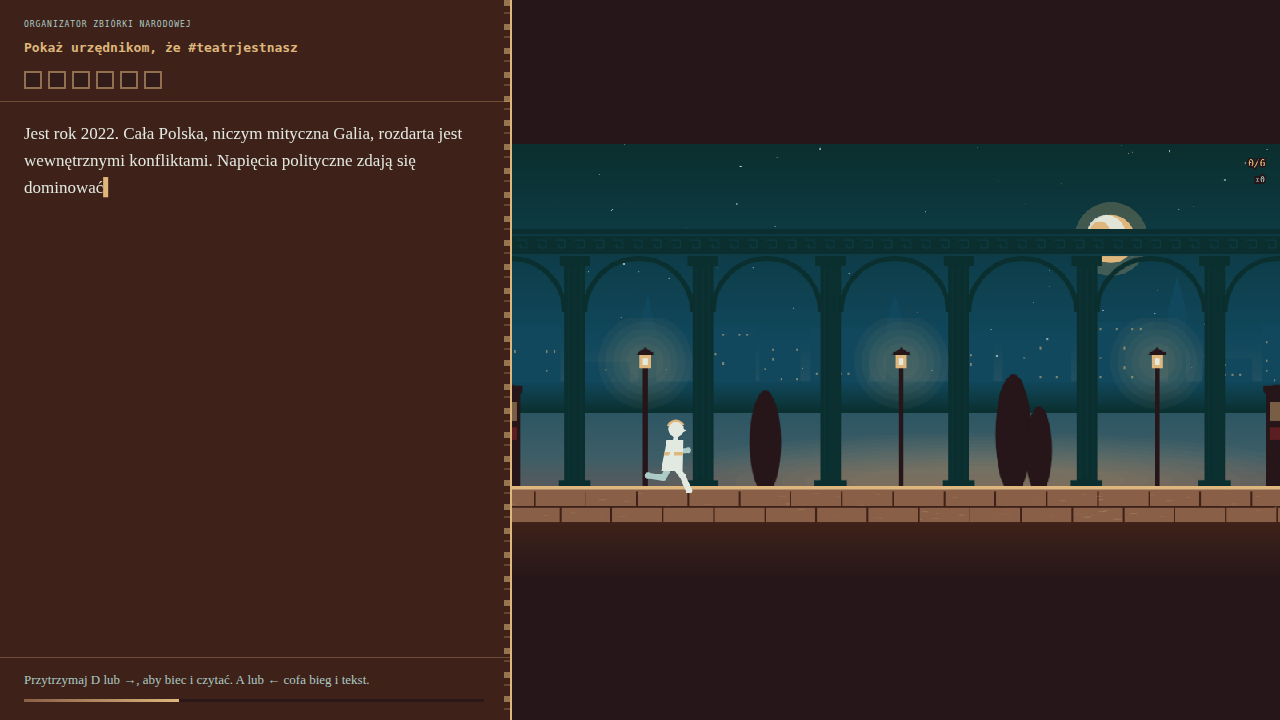
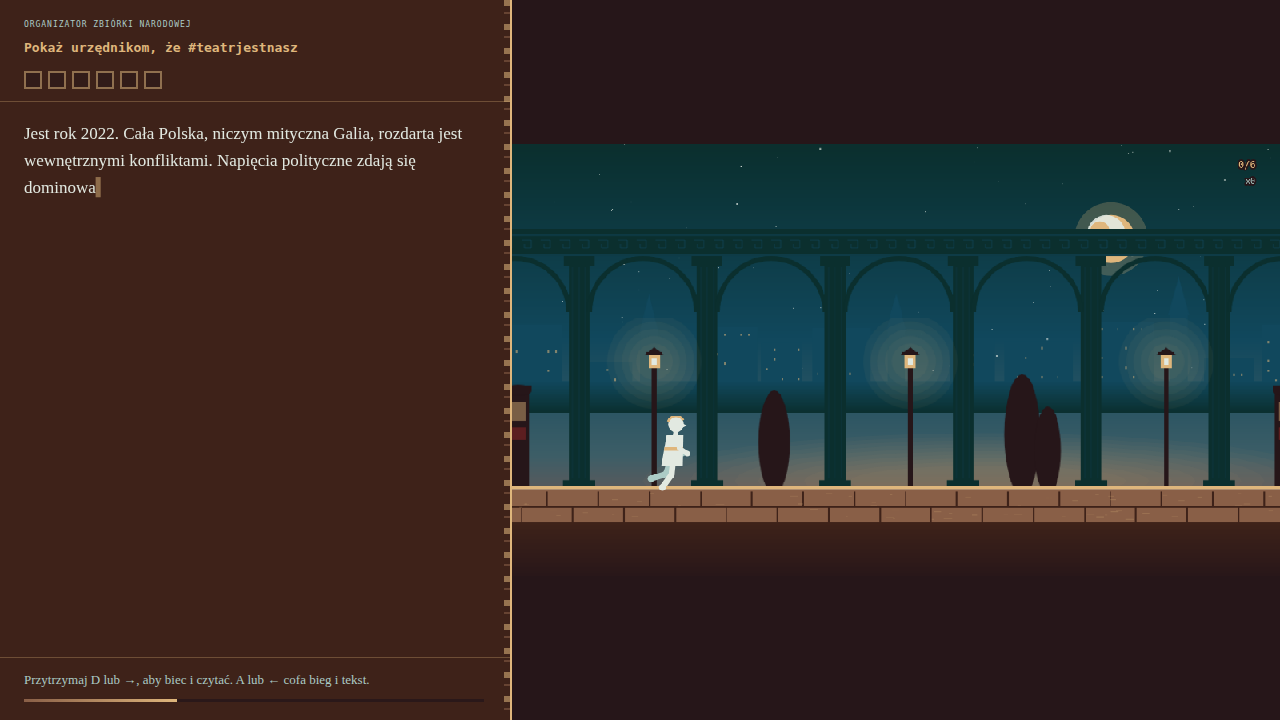
etap-4: obrazy z API w grze, fasada z API na starcie, marmurowe piętro Edukacji, postać w obrazie, głębia obrazu pod kursorem
- Historie wskazują public/assets/paintings/<id>.jpg (import przez workflow); BootScene ładuje
  JPG albo SVG po rozszerzeniu; fasada z API (public/assets/hotel/facade.jpg) z dopasowaną
  geometrią bramy i pochodni, fasada rysowana kodem jako fallback.
- Tablica FigJam: piętro Edukacji jako minimalistyczny marmur; złota sylwetka gościa pojawia się
  w obrazie, gdy stoi obok; obraz przesuwa się lekko za kursorem (głębia).
- HUD odsunięty od krawędzi, zbliżenie przy wyborze 1.02; test case'ów akceptuje JPG.
- Zrzuty ekranu: ekran startowy, hotel (trzy piętra), naprawa piętra, finał z obrazem z API.

Claude-Session: https://claude.ai/code/session_017RLHMR5sPYmY5kgMjKF4Bx

diff --git a/src/scenes/StartScene.ts b/src/scenes/StartScene.ts
@@ -1,5 +1,11 @@
 import Phaser from 'phaser';
-import { FACADE_GATE, FACADE_TORCHES, HOTEL_KEYS } from '../assets/generators/hotel';
+import {
+  FACADE_CODE,
+  FACADE_GATE,
+  FACADE_IMAGE,
+  HOTEL_KEYS,
+  type FacadeLayout,
+} from '../assets/generators/hotel';
 import { GAME_HEIGHT, GAME_WIDTH } from '../config/gameConfig';
 import { bus } from '../events/bus';
 import { prefersReducedMotion } from '../ui/dom';
@@ -24,6 +30,7 @@ export class StartScene extends Phaser.Scene {
   }[] = [];
   private gateLeft!: Phaser.GameObjects.Image;
   private gateRight!: Phaser.GameObjects.Image;
+  private layout: FacadeLayout = FACADE_CODE;
   private entering = false;
   private readonly reducedMotion = prefersReducedMotion();
   private readonly unsubscribe: (() => void)[] = [];
@@ -38,18 +45,31 @@ export class StartScene extends Phaser.Scene {
     this.torches.length = 0;
     document.body.dataset.scene = 'start';
     this.add.image(0, 0, HOTEL_KEYS.facade).setOrigin(0, 0).setDepth(0);
+    const hasImage = this.textures.exists(HOTEL_KEYS.facadeImage);
+    this.layout = hasImage ? FACADE_IMAGE : FACADE_CODE;
+    if (hasImage) {
+      // Fasada z API zakrywa rysowaną; brama i płomienie zostają kodem, dopasowane do obrazu.
+      this.add
+        .image(0, 0, HOTEL_KEYS.facadeImage)
+        .setOrigin(0, 0)
+        .setDisplaySize(GAME_WIDTH, GAME_HEIGHT)
+        .setDepth(0.5);
+    }
+    const gate = this.layout.gate;
+    const doorScale = { x: gate.width / 2 / 60, y: gate.height / 184 };
     this.gateLeft = this.add
-      .image(FACADE_GATE.x, FACADE_GATE.y + FACADE_GATE.height, HOTEL_KEYS.gateDoor)
+      .image(gate.x, gate.y + gate.height, HOTEL_KEYS.gateDoor)
       .setOrigin(1, 1)
+      .setScale(doorScale.x, doorScale.y)
       .setDepth(2)
       .setFlipX(true);
     this.gateRight = this.add
-      .image(FACADE_GATE.x, FACADE_GATE.y + FACADE_GATE.height, HOTEL_KEYS.gateDoor)
+      .image(gate.x, gate.y + gate.height, HOTEL_KEYS.gateDoor)
       .setOrigin(0, 1)
+      .setScale(doorScale.x, doorScale.y)
       .setDepth(2);
-    // Ciepłe światło z okien (bardzo słabe, zanim zapłoną pochodnie).
-    for (const t of FACADE_TORCHES) {
-      this.add.image(t.x, t.y, HOTEL_KEYS.torch).setOrigin(0.5, 0).setDepth(3);
+    for (const t of this.layout.torches) {
+      if (!hasImage) this.add.image(t.x, t.y, HOTEL_KEYS.torch).setOrigin(0.5, 0).setDepth(3);
       const halo = this.add
         .image(t.x, t.y, HOTEL_KEYS.glow)
         .setDepth(4)
@@ -142,20 +162,15 @@ export class StartScene extends Phaser.Scene {
     bus.emit('sfx', 'gate');
     const camera = this.cameras.main;
     // Brama otwiera się do środka (skrzydła zwężają się w perspektywie), światło zalewa portal.
+    const gate = this.layout.gate;
     this.tweens.add({
-      targets: this.gateLeft,
-      scaleX: 0.15,
-      duration: 900,
-      ease: 'Sine.easeInOut',
-    });
-    this.tweens.add({
-      targets: this.gateRight,
-      scaleX: 0.15,
+      targets: [this.gateLeft, this.gateRight],
+      scaleX: this.gateLeft.scaleX * 0.15,
       duration: 900,
       ease: 'Sine.easeInOut',
     });
     const glow = this.add
-      .image(FACADE_GATE.x, FACADE_GATE.y + FACADE_GATE.height / 2, HOTEL_KEYS.glow)
+      .image(gate.x, gate.y + gate.height / 2, HOTEL_KEYS.glow)
       .setDepth(3)
       .setTint(0xffe1a8)
       .setBlendMode(Phaser.BlendModes.ADD)
@@ -163,7 +178,7 @@ export class StartScene extends Phaser.Scene {
       .setScale(0.6);
     this.tweens.add({ targets: glow, alpha: 1, scale: 1.8, duration: 1100, ease: 'Quad.easeOut' });
     this.time.delayedCall(500, () => {
-      camera.pan(FACADE_GATE.x, FACADE_GATE.y + FACADE_GATE.height / 2, 1300, 'Sine.easeIn');
+      camera.pan(gate.x, gate.y + gate.height / 2, 1300, 'Sine.easeIn');
       camera.zoomTo(4, 1300, 'Sine.easeIn');
       camera.fadeOut(1200, 223, 182, 124);
       camera.once(Phaser.Cameras.Scene2D.Events.FADE_OUT_COMPLETE, () => {
@@ -176,8 +191,8 @@ export class StartScene extends Phaser.Scene {
   override update(time: number): void {
     if (!this.pointerSeen) {
       // Zanim gracz ruszy kursorem, pochodnia sama krąży przy bramie.
-      this.lightX = FACADE_GATE.x + Math.sin(time / 1700) * 140;
-      this.lightY = FACADE_GATE.y + 40 + Math.cos(time / 2300) * 60;
+      this.lightX = this.layout.gate.x + Math.sin(time / 1700) * 140;
+      this.lightY = this.layout.gate.y + 40 + Math.cos(time / 2300) * 60;
     }
     const flicker = this.reducedMotion
       ? 1
@@ -188,7 +203,7 @@ export class StartScene extends Phaser.Scene {
     this.torchLight.setScale(1.4 * flicker);
     this.darkness.erase(this.torchLight, this.lightX, this.lightY);
     for (let i = 0; i < this.lit; i += 1) {
-      const t = FACADE_TORCHES[i];
+      const t = this.layout.torches[i];
       if (t === undefined) continue;
       this.torchLight.setScale(0.8 * flicker);
       this.darkness.erase(this.torchLight, t.x, t.y - 10);

diff --git a/src/scenes/HotelScene.ts b/src/scenes/HotelScene.ts
@@ -265,8 +265,20 @@ export class HotelScene extends Phaser.Scene {
       frame.fillCircle(sx * (w / 2 + pad - 6), sy * (h / 2 + pad - 6), 3);
     }
     container.add(frame);
-    const image = this.add.image(0, 0, paintingTextureKey(kejs.id)).setDisplaySize(w, h);
+    const image = this.add
+      .image(0, 0, paintingTextureKey(kejs.id))
+      .setDisplaySize(w, h)
+      .setName('image');
     container.add(image);
+    // Tablica FigJam: „gdy stoisz pod obrazem, pojawia się w nim postać” — sylwetka gościa w obrazie.
+    const ghost = this.add
+      .image(0, h / 2 - 4, textureKey('player.idle'))
+      .setOrigin(0.5, 1)
+      .setScale(0.55)
+      .setTint(0xdfb67c)
+      .setAlpha(0)
+      .setName('ghost');
+    container.add(ghost);
     if (!restored) container.add(this.drawDamage(w, h, kejs.painting.cols, kejs.painting.rows));
 
     const plaqueY = h / 2 + pad + 14;
@@ -304,6 +316,12 @@ export class HotelScene extends Phaser.Scene {
       .setDepth(41)
       .setInteractive({ useHandCursor: true });
     const label = `${kejs.title} · ${restored ? this.strings.hubRestored : this.strings.hubDamaged}`;
+    // „Jak ruszasz myszką, to poczucie, że obraz ma głębię” — obraz przesuwa się lekko za kursorem.
+    hit.on(Phaser.Input.Events.POINTER_MOVE, (pointer: Phaser.Input.Pointer) => {
+      const dx = (pointer.worldX - x) / (w / 2);
+      const dy = (pointer.worldY - y) / (h / 2);
+      image.setPosition(-dx * 4, -dy * 3);
+    });
     hit.on(Phaser.Input.Events.POINTER_OVER, () => {
       this.tweens.add({ targets: container, scale: 1.06, duration: 180, ease: 'Quad.easeOut' });
       container.setDepth(14);
@@ -311,6 +329,7 @@ export class HotelScene extends Phaser.Scene {
       this.floorLabel.setText(label);
     });
     hit.on(Phaser.Input.Events.POINTER_OUT, () => {
+      this.tweens.add({ targets: image, x: 0, y: 0, duration: 250, ease: 'Sine.easeOut' });
       if (this.nearCase !== kejs.id) {
         this.tweens.add({ targets: container, scale: 1, duration: 180 });
         container.setDepth(12);
@@ -594,6 +613,8 @@ export class HotelScene extends Phaser.Scene {
         this.tweens.add({ targets: previous, scale: 1, duration: 200 });
         const hint = previous.getByName('hint') as Phaser.GameObjects.Text | null;
         if (hint !== null) this.tweens.add({ targets: hint, alpha: 0, duration: 150 });
+        const ghost = previous.getByName('ghost') as Phaser.GameObjects.Image | null;
+        if (ghost !== null) this.tweens.add({ targets: ghost, alpha: 0, duration: 200 });
         previous.setDepth(12);
       }
       this.nearCase = nearId;
@@ -602,6 +623,11 @@ export class HotelScene extends Phaser.Scene {
         this.tweens.add({ targets: current, scale: 1.06, duration: 200, ease: 'Back.easeOut' });
         const hint = current.getByName('hint') as Phaser.GameObjects.Text | null;
         if (hint !== null) this.tweens.add({ targets: hint, alpha: 1, duration: 200 });
+        const ghost = current.getByName('ghost') as Phaser.GameObjects.Image | null;
+        if (ghost !== null) {
+          ghost.setFlipX(this.walker.sprite.flipX);
+          this.tweens.add({ targets: ghost, alpha: 0.75, duration: 450, ease: 'Sine.easeOut' });
+        }
         current.setDepth(14);
         bus.emit('sfx', 'painting.near');
       }

diff --git a/src/assets/generators/hotel.ts b/src/assets/generators/hotel.ts
@@ -23,6 +23,8 @@ export const HOTEL_KEYS = {
   flame: 'fx.flame',
   glow: 'fx.glow',
   facade: 'start.facade',
+  /** Fasada z API (plik) — używana zamiast rysowanej, jeśli się wczyta. */
+  facadeImage: 'start.facade.image',
   light: 'fx.light',
   vignette: 'fx.vignette',
   torch: 'start.torch',
@@ -52,14 +54,15 @@ export function worldTheme(world: World): WorldTheme {
         ceiling: col('bgDeep'),
       };
     case 'edukacja':
+      // Tablica FigJam: „Edu — minimalistyczny marmur”: jasny kamień, chłodne cienie, mało ozdób.
       return {
-        wallTop: 0x24424a,
-        wallBottom: col('cool'),
-        ornament: 0xbfd1c4,
-        wainscot: 0x5b3b2a,
-        carpet: 0x1e3d44,
-        carpetEdge: 0xaccbc6,
-        ceiling: 0x152a2e,
+        wallTop: 0x8fa6a3,
+        wallBottom: 0x6f8c8b,
+        ornament: col('text'),
+        wainscot: 0x4f6664,
+        carpet: col('cool'),
+        carpetEdge: col('textMuted'),
+        ceiling: 0x3f5654,
       };
     case 'biznes':
       return {
@@ -518,14 +521,38 @@ function drawFacade(scene: Phaser.Scene): void {
   bake(torch, HOTEL_KEYS.torch, 16, 36);
 }
 
-/** Pozycje uchwytów pochodni na fasadzie (współrzędne sceny startowej). */
-export const FACADE_TORCHES: readonly { x: number; y: number }[] = [
-  { x: 480 - 110, y: 540 - 150 },
-  { x: 480 + 110, y: 540 - 150 },
-  { x: 480, y: 120 + 24 },
-];
+/** Geometria fasady: uchwyty pochodni i brama (współrzędne sceny startowej 960×540). */
+export interface FacadeLayout {
+  torches: readonly { x: number; y: number }[];
+  gate: { x: number; y: number; width: number; height: number };
+}
 
-export const FACADE_GATE = { x: 480, y: 540 - 184, width: 120, height: 184 } as const;
+/** Fasada rysowana kodem. */
+export const FACADE_CODE: FacadeLayout = {
+  torches: [
+    { x: 480 - 110, y: 540 - 150 },
+    { x: 480 + 110, y: 540 - 150 },
+    { x: 480, y: 120 + 24 },
+  ],
+  gate: { x: 480, y: 540 - 184, width: 120, height: 184 },
+};
+
+/** Fasada z API (public/assets/hotel/facade.jpg) — pochodnie i brama tam, gdzie na obrazie. */
+export const FACADE_IMAGE: FacadeLayout = {
+  torches: [
+    { x: 400, y: 362 },
+    { x: 560, y: 362 },
+    { x: 480, y: 150 },
+  ],
+  gate: { x: 480, y: 352, width: 84, height: 150 },
+};
+
+export const FACADE_TORCHES = FACADE_CODE.torches;
+
+/** Ścieżka fasady z API (importowanej workflow'em) — wpis 'facade.image' w manifeście. */
+export const FACADE_IMAGE_PATH = 'assets/hotel/facade.jpg';
+
+export const FACADE_GATE = FACADE_CODE.gate;
 
 export function generateHotel(scene: Phaser.Scene): void {
   const worlds: World[] = ['kultura', 'edukacja', 'biznes'];

diff --git a/src/scenes/BootScene.ts b/src/scenes/BootScene.ts
@@ -8,7 +8,7 @@ import {
   generateStars,
 } from '../assets/generators/background';
 import { generateFx } from '../assets/generators/fx';
-import { generateHotel } from '../assets/generators/hotel';
+import { FACADE_IMAGE_PATH, generateHotel, HOTEL_KEYS } from '../assets/generators/hotel';
 import { generateObstacles } from '../assets/generators/obstacles';
 import { generatePlayer } from '../assets/generators/player';
 import { GAME_HEIGHT, GAME_WIDTH } from '../config/gameConfig';
@@ -36,11 +36,23 @@ export class BootScene extends Phaser.Scene {
     const current = runnerData?.script?.kejs;
     if (current !== undefined && !cases.some((c) => c.id === current.id)) cases.push(current);
     for (const kejs of cases) {
-      this.load.svg(paintingTextureKey(kejs.id), assetUrl(kejs.painting.src), {
-        width: PAINTING_RASTER.width,
-        height: PAINTING_RASTER.height,
-      });
+      const key = paintingTextureKey(kejs.id);
+      if (/\.svg$/i.test(kejs.painting.src)) {
+        this.load.svg(key, assetUrl(kejs.painting.src), {
+          width: PAINTING_RASTER.width,
+          height: PAINTING_RASTER.height,
+        });
+      } else {
+        // Obrazy z API (JPG/PNG) — rasterowane już w rozmiarze PAINTING_RASTER.
+        this.load.image(key, assetUrl(kejs.painting.src));
+      }
     }
+    // Fasada z API na ekran startowy (opcjonalna — brak pliku = fasada rysowana kodem).
+    this.load.image(HOTEL_KEYS.facadeImage, assetUrl(FACADE_IMAGE_PATH));
+    this.load.on(Phaser.Loader.Events.FILE_LOAD_ERROR, (file: Phaser.Loader.File) => {
+      if (file.key === HOTEL_KEYS.facadeImage) return;
+      console.error(`[assets] nie udało się wczytać ${file.key}`);
+    });
   }
 
   create(): void {

diff --git a/tests/unit/cases.test.ts b/tests/unit/cases.test.ts
@@ -1,4 +1,4 @@
-import { readdirSync, readFileSync } from 'node:fs';
+import { existsSync, readdirSync, readFileSync } from 'node:fs';
 import { describe, expect, it } from 'vitest';
 import { TUNING } from '../../src/config/tuning';
 import { caseWarnings, loadCase } from '../../src/content/loader';
@@ -49,9 +49,11 @@ describe.each(files)('case %s', (file) => {
   it('spełnia schemat, ma grafiki przeszkód i trzyma rytm z _SZABLON.md', () => {
     expect(file).toBe(`${kejs.id === 'demo' ? '_demo' : kejs.id}.json`);
     expect(caseWarnings(kejs)).toEqual([]);
-    expect(kejs.painting.src).toBe(
-      `assets/paintings/${kejs.id === 'demo' ? '_demo' : kejs.id}.svg`,
+    // Obraz: JPG z API (public/assets/paintings) albo placeholder SVG (_demo); plik musi istnieć.
+    expect(kejs.painting.src).toMatch(
+      new RegExp(`^assets/paintings/${kejs.id === 'demo' ? '_demo' : kejs.id}\\.(jpg|svg)$`),
     );
+    expect(existsSync(new URL(`../../public/${kejs.painting.src}`, import.meta.url))).toBe(true);
     const types = kejs.beats.map((b) => b.type);
     let streak = 0;
     for (const type of types) {

diff --git a/src/assets/manifest.ts b/src/assets/manifest.ts
@@ -55,7 +55,18 @@ export const ASSET_MANIFEST = {
   // --- obrazy case'ów: ścieżki pochodzą z JSON (painting.src); klucz tekstury = painting.<id> ---
   'painting.*': {
     source: 'case',
-    license: 'placeholder SVG generowany kodem (public/assets/paintings/*, scripts/paintings.mjs)',
+    license:
+      'obrazy z API (Gamma, public/assets/paintings/*.jpg, ASSETS_ATTRIBUTION.md); placeholdery SVG ze scripts/paintings.mjs',
+  },
+
+  // --- hotel i ekran startowy: tekstury generowane kodem (src/assets/generators/hotel.ts) ---
+  'hotel.*': generated,
+  'start.facade': generated,
+  /** Fasada z API: public/assets/hotel/facade.jpg (workflow paintings-import), opcjonalna. */
+  'start.facade.image': {
+    source: 'file',
+    path: 'assets/hotel/facade.jpg',
+    license: 'obraz wygenerowany przez API (Gamma) na koncie właściciela — ASSETS_ATTRIBUTION.md',
   },
 
   // --- efekty ---

diff --git a/src/runner/Hud.ts b/src/runner/Hud.ts
@@ -25,7 +25,7 @@ export class Hud {
   ) {
     this.debugVisible = debugVisible;
     this.fragmentsText = scene.add
-      .text(width - 16, 14, '', {
+      .text(width - 28, 16, '', {
         fontFamily: FONT_HUD,
         fontSize: '12px',
         color: PALETTE.gold,
@@ -35,7 +35,7 @@ export class Hud {
       .setOrigin(1, 0)
       .setDepth(100);
     this.stumblesText = scene.add
-      .text(width - 16, 36, '', {
+      .text(width - 28, 38, '', {
         fontFamily: FONT_HUD,
         fontSize: '10px',
         color: PALETTE.textMuted,

diff --git a/src/scenes/RunnerScene.ts b/src/scenes/RunnerScene.ts
@@ -197,7 +197,7 @@ export class RunnerScene extends Phaser.Scene {
   /** Skupienie na wyborze/QTE: delikatne przybliżenie i winieta (GRIS: powoli, miękko). */
   private focus(on: boolean): void {
     const camera = this.cameras.main;
-    camera.zoomTo(on ? 1.04 : 1, on ? 600 : 500, 'Sine.easeInOut');
+    camera.zoomTo(on ? 1.02 : 1, on ? 600 : 500, 'Sine.easeInOut');
     this.tweens.add({ targets: this.vignette, alpha: on ? 0.55 : 0, duration: on ? 600 : 500 });
     if (on) this.vignette.clearTint();
   }

diff --git a/docs/DZIENNIK.md b/docs/DZIENNIK.md
@@ -224,6 +224,10 @@ Po scaleniu PR #1 Arek zamówił szlif UX/UI całego produktu i elementy spoza P
 - **Obrazy z API**: wygenerowane przez Gamma (jedyny generator dostępny z sesji; Meshy, którego chciał Arek, jest zablokowany sieciowo). Środowisko Claude Code nie może pobrać plików z CDN Gamma (blokada egress), więc pobieranie robi **GitHub Actions** (`.github/workflows/paintings-import.yml`): zmiana `content/paintings/sources.json` na dowolnej gałęzi uruchamia import, kadrowanie do 960×640 i commit do `public/assets/paintings/<id>.jpg`. Koszt: 70 kredytów/obraz; 13 obrazów (12 case'ów + fasada) = 910 kredytów, zostało 1020. Vertex AI Imagen jest osiągalny sieciowo, ale bez potwierdzonego projektu/klucza — do decyzji Arka, jeśli ma zastąpić Gamma.
 - **Usunięte**: `HubStubScene` i `hubLayout.ts` (zastąpione hotelem). Testy e2e wchodzą do obrazu chodząc korytarzem (`data-near`, klawisz E) albo przyciskiem z listy.
 
+### Z tablicy FigJam (odczytanej przez konektor Figma)
+
+Notatki z sekcji „ścieżka V1/V2”, które weszły wprost: ciemny ekran → pochodnia kursorem → pola zapalają pochodnie → „wejdź” (Kingdom Two Crowns); „Edu — minimalistyczny marmur, Kultura — GRIS, Biz — Transistor” (piętro Edukacji jest teraz jasnym kamieniem, nie turkusem); „gdy stoisz pod obrazem, pojawia się w nim postać” (złota sylwetka gościa w obrazie, gdy stoi obok); „jak ruszasz myszką — poczucie, że obraz ma głębię” (obraz przesuwa się za kursorem w ramie); „fun z jazdy windą” (drzwi, ding, przejazd kamery). Odnotowane, ale nie wdrożone: winda z wyborem postaci (Artysta/Edukator/Przedsiębiorca), 9 drzwi jako ikonografia obszarów, pop-up „odblokowałeś galerię”, bramka biletowa jako żart, 4. piętro z galerią i popiersiami mentorów, trzy puste obrazy na koniec („Wyrok gwiazd”, „Wypicie kielicha”, „Szarża słów”), tła pre-renderowane jako filmy, „Klimt i Łempicka to Transistor, ale w marmurze”. Pytanie z tablicy „czy muzyka od razu jest ok?” — rozstrzygnięte: dźwięk startuje po pierwszym geście (polityka przeglądarek), ambient gra już na ekranie startowym.
+
 ### Zakres backlogu, który wszedł (na prośbę Arka)
 
 P1 „Hotel jako przestrzeń”, P2 „Ekran startowy” (bez zapisu postępu), P2 „Pipeline generatywny” (Gamma zamiast Imagen), P3 „Dźwięk/muzyka” (placeholdery), P3 „Easter eggi” (posąg, melodyjka-placeholder). Nadal w backlogu: zapis postępu po mailu, galeria finałowa, sztandary partnerów, i18n, CMS z Notion, spersonalizowana historia, deploy na domenie.
